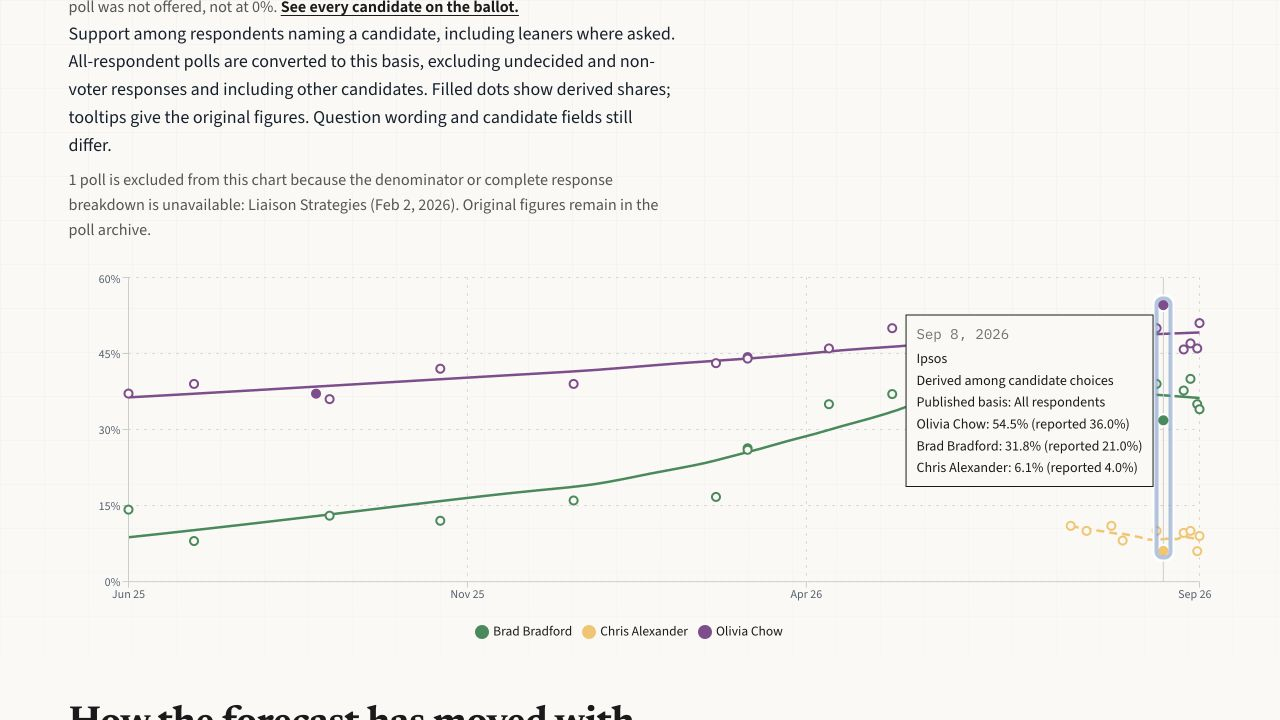
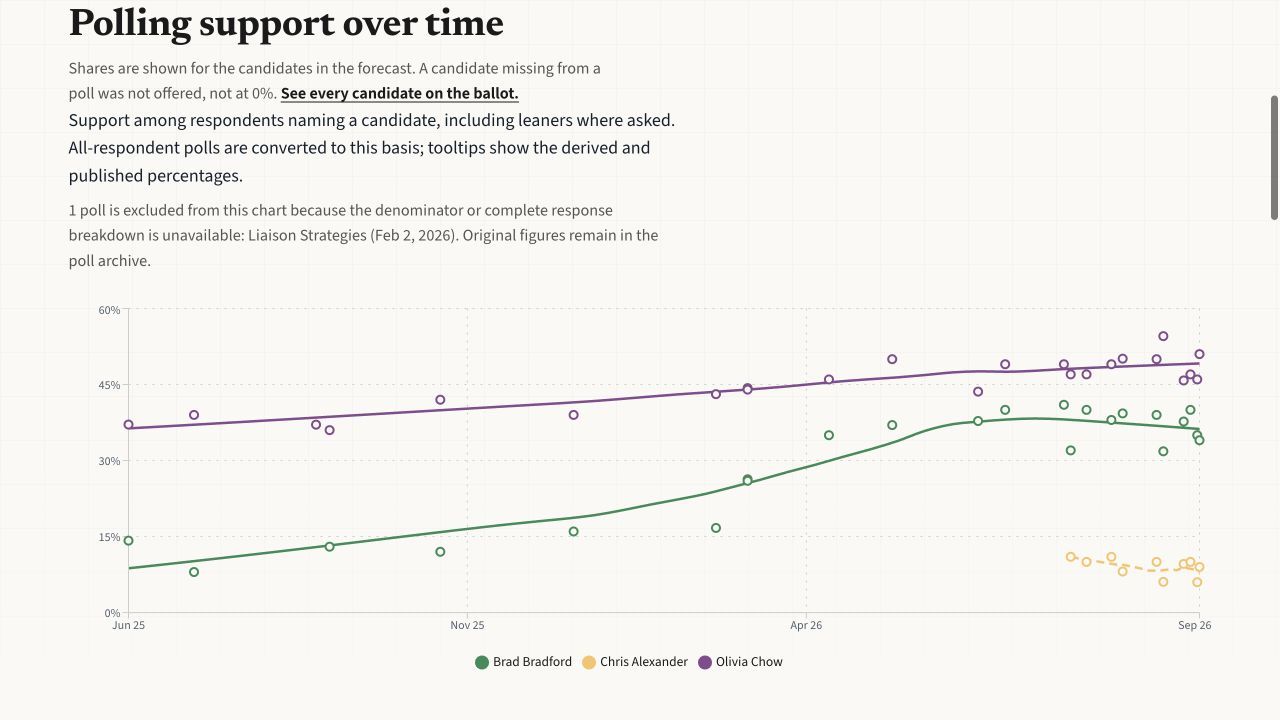
fix: simplify polling chart markers (#33)

diff --git a/src/components/polling-chart-graphic.tsx b/src/components/polling-chart-graphic.tsx
@@ -46,8 +46,8 @@ function fullDayLabel(day: number): string {
   return FULL_DAY_FORMATTER.format(new Date(day * 86_400_000));
 }
 
-function marker(id: string, color: string, cx = 0, cy = 0, derived = false) {
-  const fill = derived ? color : "var(--panel)";
+function marker(id: string, color: string, cx = 0, cy = 0) {
+  const fill = "var(--panel)";
   if (id === "bradford") {
     return (
       <rect x={cx - 4} y={cy - 4} width={8} height={8} fill={fill} stroke={color} strokeWidth={2} />
@@ -224,7 +224,7 @@ export const PollingChartGraphic = memo(function PollingChartGraphic({
                 }
                 return (
                   <g key={`${candidate.id}-dot-${props.index}`}>
-                    {marker(candidate.id, candidate.color, props.cx, props.cy, props.payload?.details?.[candidate.id]?.derived)}
+                    {marker(candidate.id, candidate.color, props.cx, props.cy)}
                   </g>
                 );
               }}

diff --git a/src/app/how-it-works/page.tsx b/src/app/how-it-works/page.tsx
@@ -199,8 +199,8 @@ export default async function HowItWorksPage() {
                   decided-and-leaning shares retain the poll&rsquo;s published values.
                   All-respondent readings are divided by the sum of every reported
                   candidate choice, including other candidates, excluding undecided and
-                  non-voter responses. Filled dots identify these derived shares;
-                  tooltips show the original percentages, which remain in the archive.
+                  non-voter responses. Tooltips identify derived shares and show the
+                  original percentages, which remain in the archive.
                 </p>
                 <p>
                   This conversion does not recover leaners the poll did not ask for.

diff --git a/src/app/polls/page.tsx b/src/app/polls/page.tsx
@@ -59,10 +59,8 @@ export default async function PollsPage() {
               <PollingScopeNote />
               <p>
                 Support among respondents naming a candidate, including leaners where asked.
-                All-respondent polls are converted to this basis, excluding undecided and
-                non-voter responses and including other candidates. Filled dots show derived
-                shares; tooltips give the original figures. Question wording and candidate
-                fields still differ.
+                All-respondent polls are converted to this basis; tooltips show the
+                derived and published percentages.
               </p>
               {excluded.length > 0 && (
                 <p>

diff --git a/src/lib/polls-page.test.tsx b/src/lib/polls-page.test.tsx
@@ -29,7 +29,7 @@ describe("Polls page", () => {
     mocks.loadMayoralPolling.mockResolvedValue(polling);
     const html = renderToStaticMarkup(await PollsPage());
     expect(html).toContain("Support among respondents naming a candidate");
-    expect(html).toContain("Filled dots show derived");
+    expect(html).toContain("derived and published percentages");
     expect(html).toContain("1 poll is excluded");
     expect(html).toContain("Unknown basis firm");
     expect(html).toContain("54.5%");
